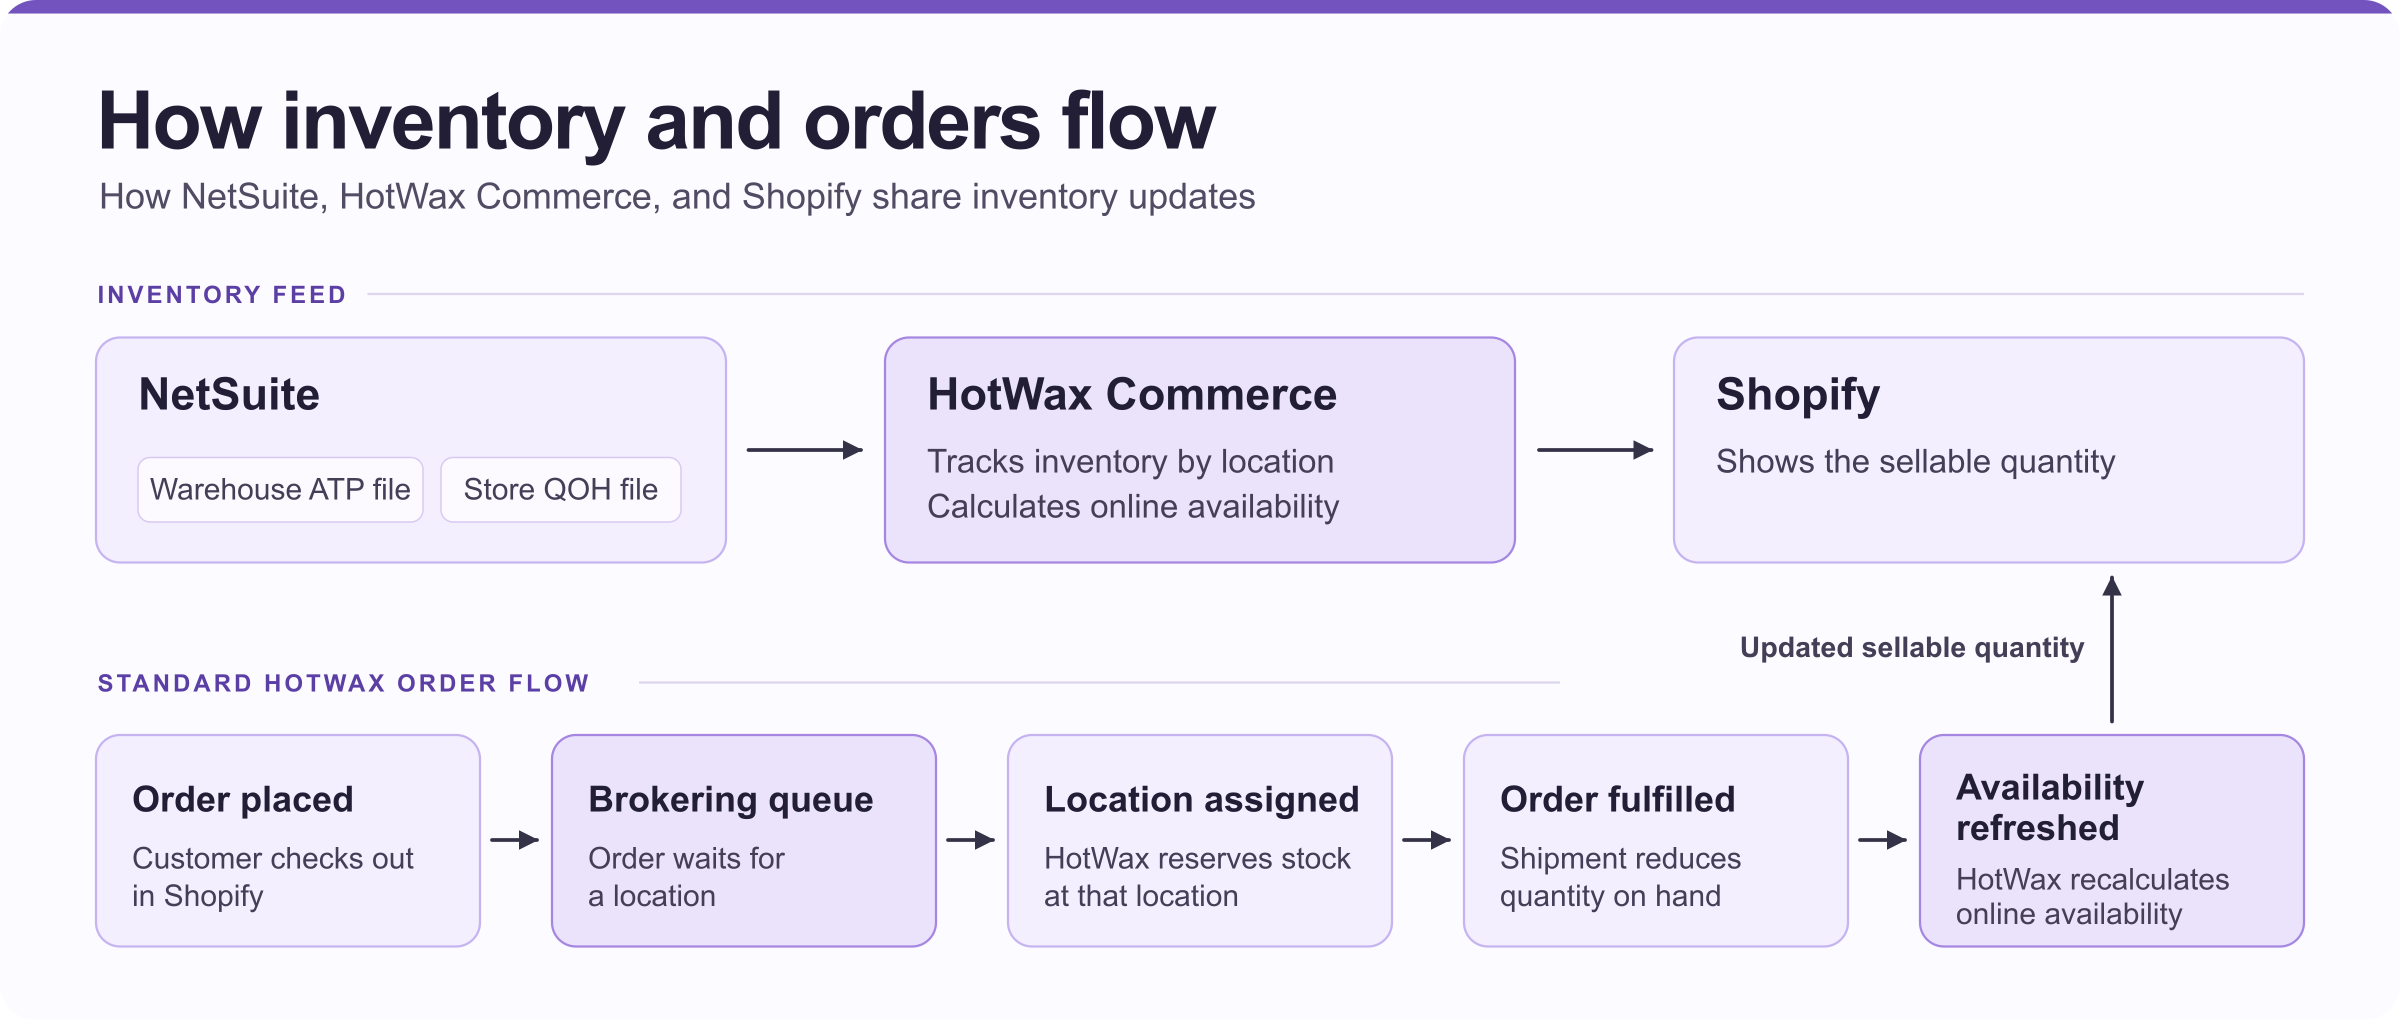
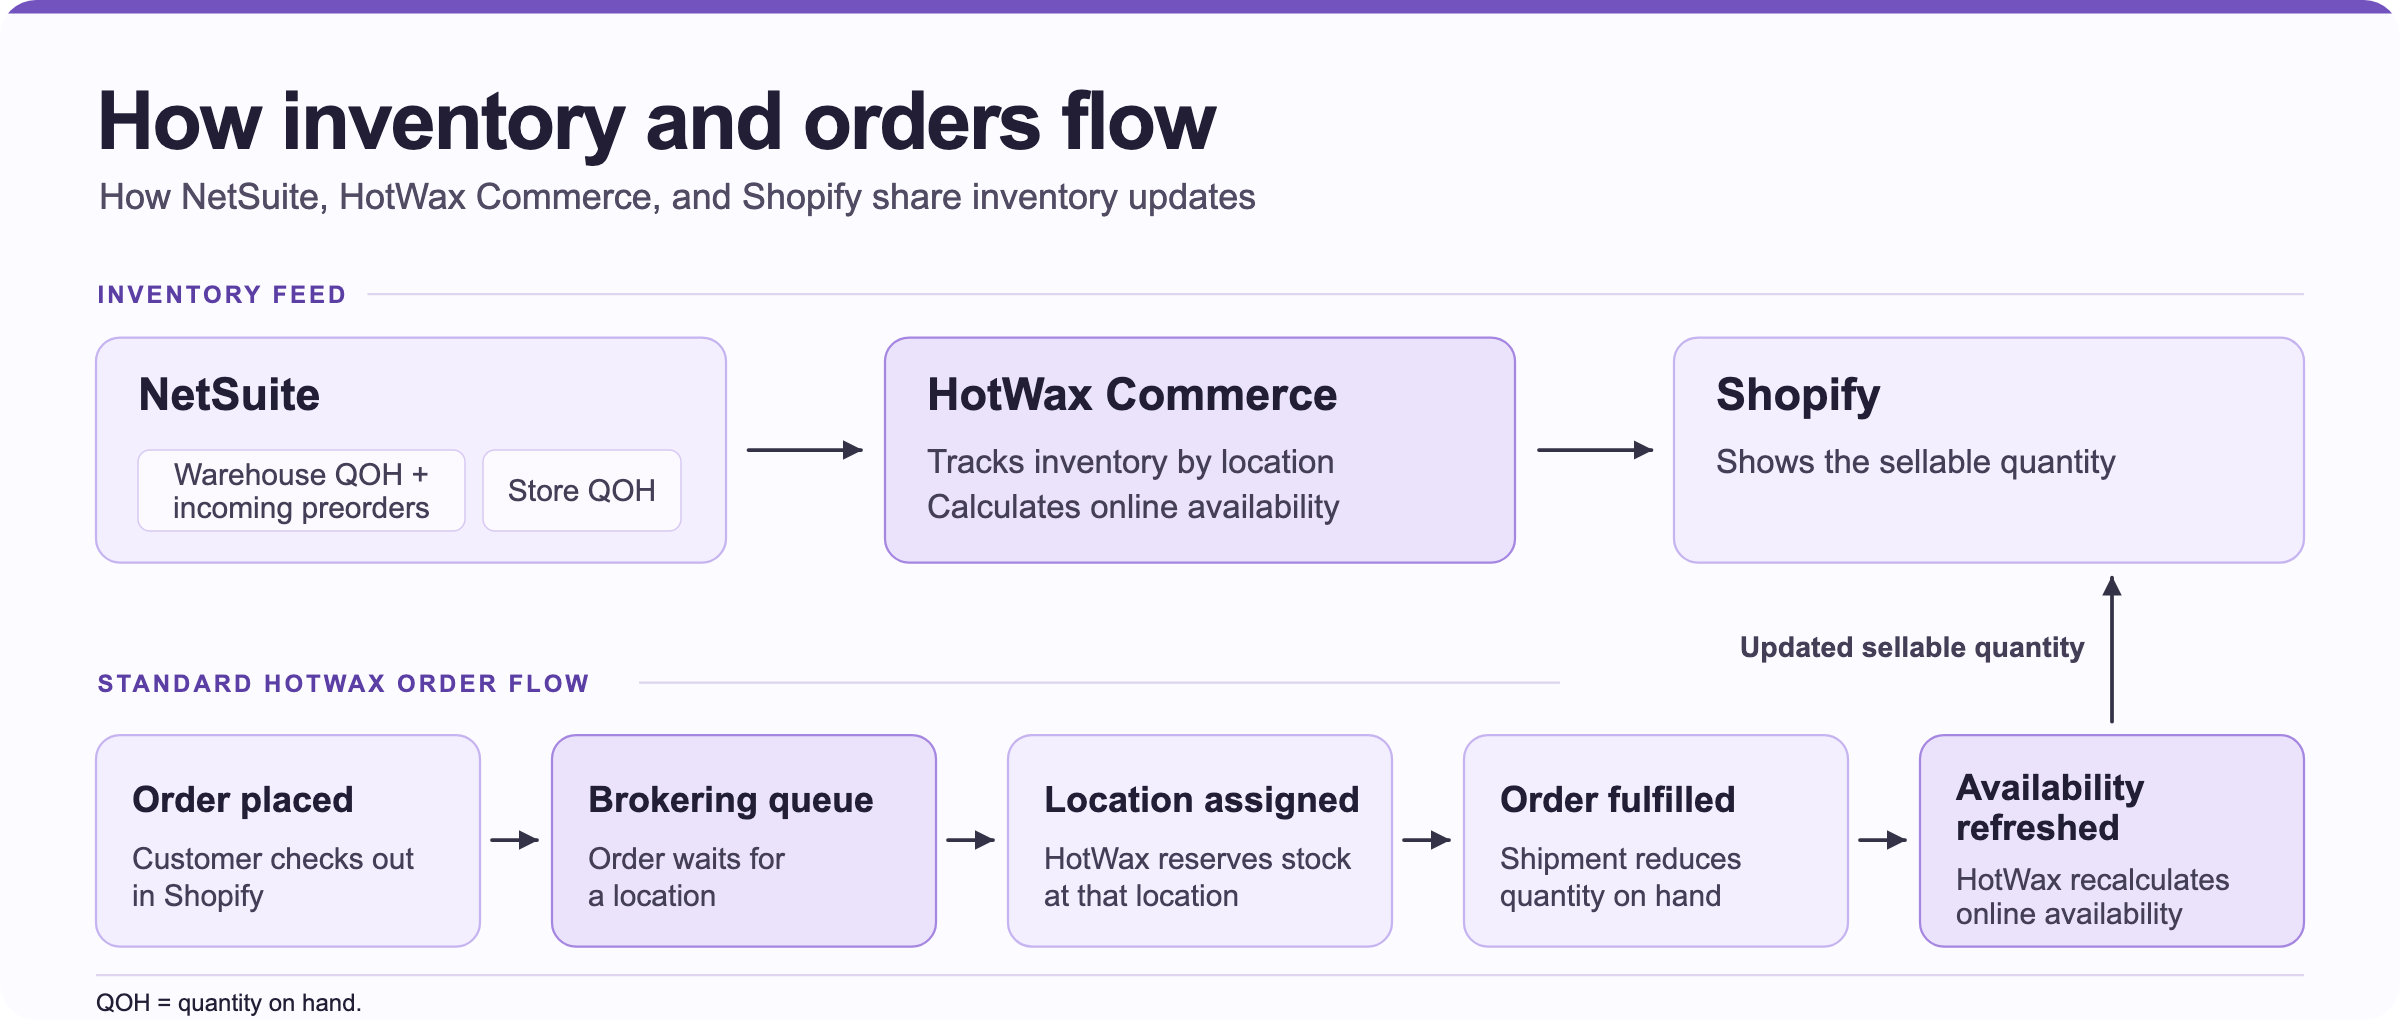
Apply Malbon inventory review feedback

diff --git a/malbon/README.md b/malbon/README.md
@@ -8,21 +8,19 @@ description: >-
 
 How NetSuite inventory feeds, customer orders, and Shopify updates fit together
 
-Malbon’s repository defines two inventory exports from NetSuite: a warehouse available-to-promise (ATP) feed and a store quantity-on-hand (QOH) feed. The sections below explain what the files contain, how the order commitment moves through HotWax, and which Shopify rules are specific to Malbon.
+Malbon uses two inventory feeds from NetSuite. The warehouse feed combines quantity on hand (QOH) with incoming preorder quantity. The store feed contains QOH. The sections below explain what the files contain, how the order commitment moves through HotWax, and which Shopify rules are specific to Malbon.
 
-![Diagram showing NetSuite warehouse ATP and store QOH feeds into HotWax, then Shopify order brokering, location allocation, fulfillment, and refreshed sellable quantity.](images/malbon-inventory-and-order-commitments.png)
+![NetSuite sends warehouse on-hand and incoming preorder quantities and store QOH to HotWax. The diagram also shows how Shopify orders move through brokering, location assignment, and fulfillment before HotWax refreshes sellable quantity.](images/malbon-inventory-and-order-commitments.png)
 
 *The diagram summarizes the inventory feed and order fulfillment flow. The following sections explain the queue commitment and Malbon-specific Shopify rules.*
 
 ## What NetSuite sends
 
-NetSuite creates two separate inventory files. The warehouse file uses the quantity available at each location. The store file uses the quantity on hand at each location.
+### Warehouse on-hand and preorder inventory
 
-### Warehouse ATP
+In the live configuration reported in the implementation review, the warehouse search adds location quantity on hand to incoming preorder quantity from open purchase orders for warehouse location `221`. The file marks each row as a QOH reset.
 
-The warehouse search reads NetSuite’s location quantity available field. If that value is empty, the search uses zero. The file marks the row as an ATP reset.
-
-Search ID: customsearch_export_inventory_item_atp. Filename prefix: InventoryItemWhAtpExport_. The search filters to location type 2.
+The checked-in search `customsearch_export_inventory_item_atp` still uses location quantity available and marks rows as an ATP reset. That search definition describes the repository configuration.
 
 ### Store QOH
 
@@ -32,9 +30,7 @@ Search ID: customsearch_export_inventory_item_qoh. Filename prefix: InventoryIte
 
 The Store QOH deployment is titled `HC_generateCSV_InventoryItemsStore_QOH` but uses the prefix `InventoryItemWhQOHExport_`; the `Wh` segment is present in the checked-in setting.
 
-Both files identify the item and location, provide an inventory quantity, and specify which reset type to use. They include active inventory part, group, kit, and non-inventory part items.
-
-The saved searches filter by item type, inactive status, and location type. The `HotWax Inventory Sync` location checkbox (`custrecord_hc_inv_sync`) is defined in the repository, but neither inventory saved search includes it as a filter. For these exports, the saved-search filters select rows by item and location type, not by that checkbox.
+The checked-in saved searches identify the item, location, quantity, and reset type. They filter by item type, active status, and location type. Eligible item types include inventory part, group, kit, and non-inventory part. Neither checked-in search uses the `HotWax Inventory Sync` location checkbox (`custrecord_hc_inv_sync`).
 
 ## How the files are created and sent
 
@@ -45,6 +41,10 @@ A second script sends CSV files from that folder to the configured SFTP connecti
 ### Inventory CSV uploader
 
 The uploader record ID is `customscript_imp_inventoryitem`, although the script is named `HC_uploadCSV_InventoryItems`. Its two checked-in deployments are marked `TESTING` and have no recurrence blocks. Each run selects at most 20 CSV files. The script appends `inventoryitem` to the configured SFTP directory when creating the connection, then passes `/csv/` as the directory in each upload call. The repository shows these values but does not confirm the live SFTP path or upload schedule.
+
+### Daily inventory resets and peak sales
+
+Malbon runs a daily full on-hand inventory reset from NetSuite to HotWax. A separate daily on-hand reset sends inventory from HotWax to Shopify. During peak sales events such as Black Friday and Cyber Monday, Malbon can pause the Shopify reset and rely on event-based ledger updates to keep inventory in sync and reduce oversell risk.
 
 ## What happens when a customer places an order
 
@@ -66,14 +66,16 @@ When HotWax receives the fulfillment update, QOH decreases to reflect the goods 
 
 ## How to read the numbers
 
-QOH is the physical baseline. An order is a commitment against that inventory. While it waits for a location, it reduces Online ATP. After allocation, it is held against the selected location’s ATP. After fulfillment, QOH reflects the physical movement.
+QOH is the physical baseline. The warehouse feed adds incoming preorder units, so its total can be higher than the physical count. An order is a commitment against inventory. While it waits for a location, it reduces Online ATP. After allocation, it is held against the selected location’s ATP. After fulfillment, QOH reflects the physical movement.
 
 The quantities in NetSuite, HotWax, and Shopify are views of the same inventory at different stages. Do not add the three system totals together.
 
-Flow: NetSuite warehouse ATP and store QOH files → HotWax inventory and online availability → Shopify sellable quantity. Shopify order → HotWax brokering queue → location allocation → fulfillment update → refreshed HotWax availability → Shopify.
+Flow: NetSuite warehouse on-hand and incoming preorder quantities, plus store QOH → HotWax inventory and online availability → Shopify sellable quantity. Shopify order → HotWax brokering queue → location allocation → fulfillment update → refreshed HotWax availability → Shopify.
 
 ## Malbon’s Shopify rules
 
 Malbon’s inventory-event customization allows physical inventory changes at locations outside a shop’s transfer facility group to remain eligible for Shopify updates. The group is configured in HotWax; its live location membership is not included in the repository.
 
 For transfer orders, Malbon queues a Shopify transfer after approval only when at least one end of the transfer is in the shop’s configured transfer facility group. If neither end is included, the transfer is not sent to Shopify. If only one end is included, the Shopify transfer uses that location and leaves out the other one.
+
+For a warehouse-to-store transfer where the store is outside the group, Shopify tracks the warehouse commitment and omits the store endpoint. This avoids a second deduction from store inventory managed by Retail Ops.
